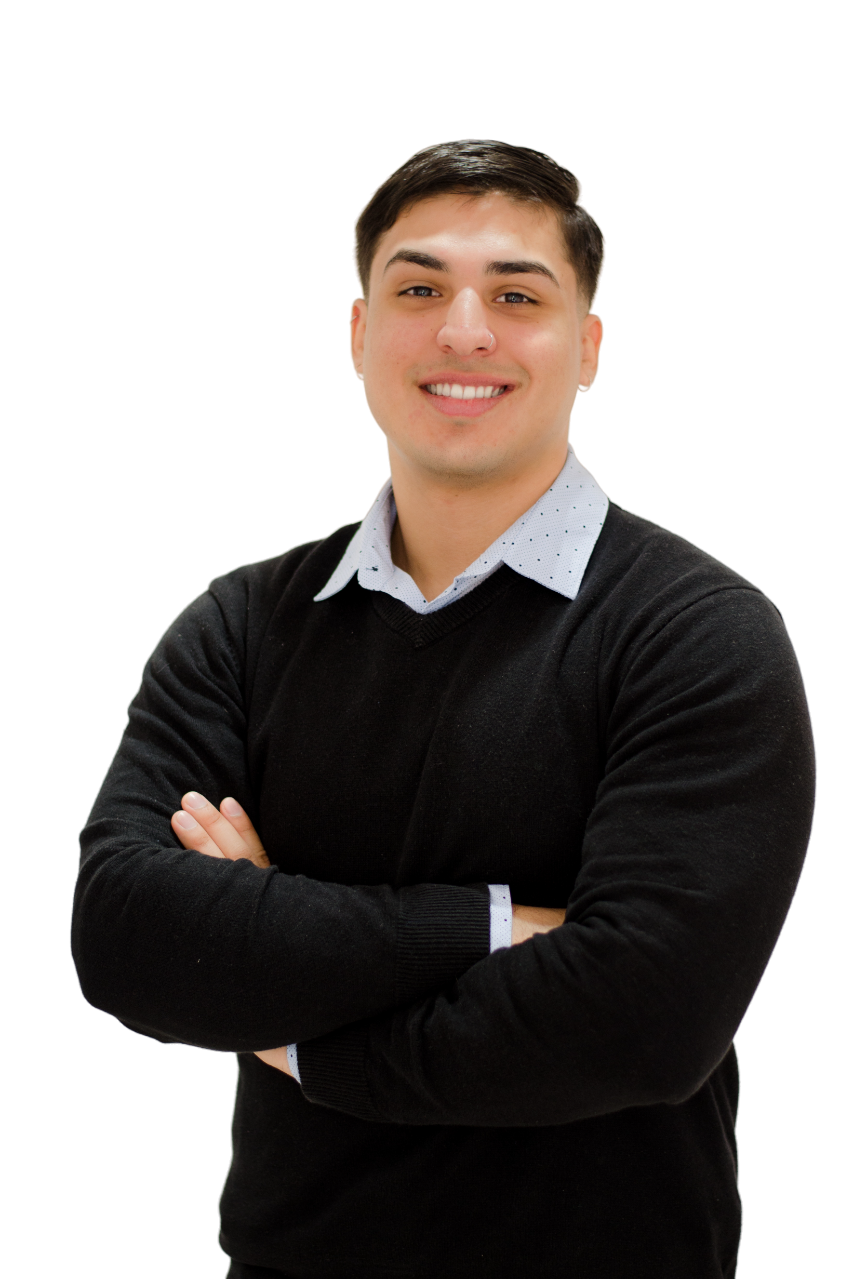
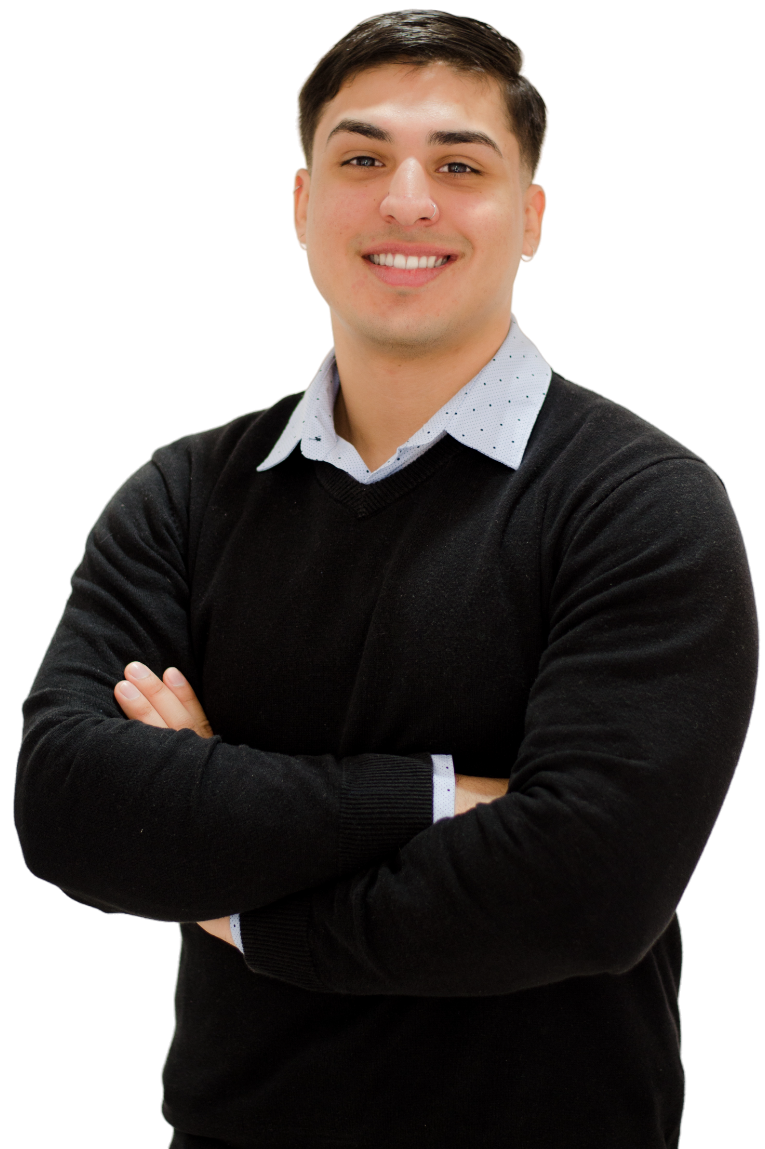
Hero terminado. Cambio de color a transparente al header

diff --git a/css/style.css b/css/style.css
@@ -1,17 +1,19 @@
-@import url('https://fonts.googleapis.com/css2?family=Exo+2:wght@600&family=Poppins:wght@400;500;600;700&display=swap');
+@import url('https://fonts.googleapis.com/css2?family=Domine:wght@600&family=Exo+2:wght@600&family=Poppins:wght@400;500;600;700&display=swap');
 
 /* font-family: 'Poppins', sans-serif; */
 /* font-family: 'Exo 2', sans-serif; */
-
+/* font-family: 'Domine', serif; */
 *{
     padding: 0;
     margin: 0;
-
+    font-family: 'Poppins', sans-serif;
 }
+
+/* ------------------- HEADER ------------------- */
 
 header{
     padding: 10px 0px;
-    background-color: rgb(60, 87, 59);
+    background-color: rgba(0, 0, 0, 0);
     font-family: 'Poppins', sans-serif;
     width: 100%;
     position: fixed;
@@ -26,6 +28,7 @@ header .logo{
     margin-left: 100px;
     color: white;
     font-size: 20px;
+
 
 }
 
@@ -45,26 +48,150 @@ nav a{
     text-decoration: none;
     padding-left: 20px;
     font-size: 11.5px;
+    font-weight: 600;
 }
-
-
-
-
 
 
 header button{
     font-family: 'Poppins', sans-serif;
     font-size: 12px;
+    font-weight: 600;
     text-transform: uppercase;
-    margin-right: 100px;
+    margin-right: 20px;
     color: white;
     background-color: #F83546;
     border: none;
-    padding: 10px 20px;
+    padding: 13px 25px;
+    margin-right: 100px;
     border-radius: 50px;
+    cursor: pointer;
 }
 
 
+
+/* ------------------- HERO ------------------- */
+
+.hero{
+    height: 100vh;
+    background-image: linear-gradient(rgb(0,0,0,0.5),rgba(0,0,0,0.5)),url(../images/background.png);
+    background-size: cover;
+    background-position: right;
+    display: flex;
+    justify-content: center;
+    align-items: center;
+    overflow: hidden;
+
+}
+
+
+
+.div-izq-hero{
+    color: white;
+    margin-top: 60px;
+    margin-left: 10rem;
+}
+
+
+.div-izq-hero h4{
+    color: #F83546;
+    font-size: 18px;
+    font-weight: 600;
+}
+
+
+.div-izq-hero h1{
+    font-size: 4em;
+    line-height: 1.2em;
+    font-family: 'Domine', serif;
+    margin: 20px 0px;
+}
+
+
+.div-izq-hero h1 span{
+    color: #F83546;
+    font-family: 'Domine', serif;
+
+}
+
+.div-izq-hero p{
+    color: rgb(106, 106, 106);
+    font-size: 11px;
+    margin-bottom: 30px;
+}
+
+
+
+
+
+
+
+
+.botones-hero{
+    display: flex;
+    align-items: center;
+}
+
+
+.div-izq-hero .leermas{
+    font-family: 'Poppins', sans-serif;
+    font-size: 12px;
+    font-weight: 600;
+    text-transform: uppercase;
+    margin-right: 20px;
+    color: white;
+    background-color: #F83546;
+    border: none;
+    padding: 13px 45px;
+    border-radius: 50px;
+    cursor: pointer;
+}
+
+
+
+.contenedor-play-video{
+    display: flex;
+    align-items: center;
+
+}
+
+.texto-play-video{
+    height: 20px;
+    margin-left: 10px;
+    font-weight: 600;
+}
+
+.texto-play-video p{
+    color: #F83546;
+    font-size: 12px;
+    text-transform: uppercase;
+}
+
+
+.play-video{
+    background-color: white;
+    width: 43px;
+    height: 43px;
+    border-radius: 50px;
+    display: flex;
+    justify-content: center;
+    align-items: center;
+}
+
+.triangulo-play{
+    color: #F83546;
+    font-size: 13px;
+    rotate: 90deg;
+}
+
+
+
+
+
+.diegoimg{
+    width: 30em;
+    margin-top: 13em;
+    margin-right: 4em;
+}
 
 
 

diff --git a/index.html b/index.html
@@ -29,27 +29,37 @@
         <section class="hero">
 
             <div class="div-izq-hero">
-                <h4>Preparate para empezar a trabajar.</h4>
+                <h4>Empecemos a trabajar.</h4>
 
-                <h1>Soy <span>Developer</span><br>
+                <h1>Soy <span>Frontend</span><br>
                 Diego Franco</h1>
 
-                <p>Apasionado por crear experiencias visuales cautivadoras y funcionales. Experto en convertir diseños en interfaces interactivas y optimizadas para brindar una navegación intuitiva y atractiva.</p>
+                <p>Apasionado por crear experiencias visuales cautivadoras y funcionales, convierto<br> diseños en interfaces interactivas y optimizadas.</p>
 
-                <div>
-                    <button>Leer más</button>
+                <div class="botones-hero">
+                    
+                    <button class="leermas">Leer más</button>
 
                     <div class="contenedor-play-video">
-                        <button>PLAY</button>
-                        <p>PLAY VIDEO</p>
+
+                            <div class="play-video">
+                                <i class="bi bi-triangle-fill triangulo-play"></i>
+                            </div>
+
+                            <div class="texto-play-video">
+                                <p>PLAY VIDEO</p>
+                            </div>
+                        
+
                     </div>
+                    
 
                 </div>
             </div>
             
-            <div class="div-der-hero">
-                <img src="images/diego-img.png" alt="">
-            </div>
+
+                <img class="diegoimg" src="images/diego-img.png" alt="">
+
 
         </section>
 
